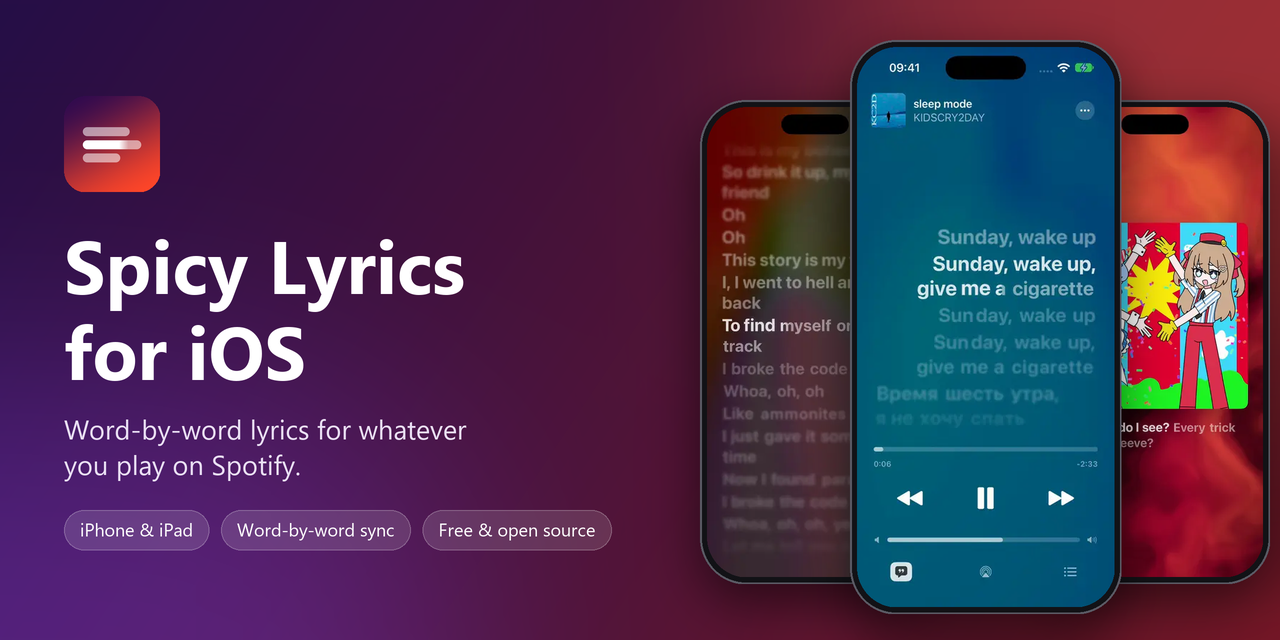
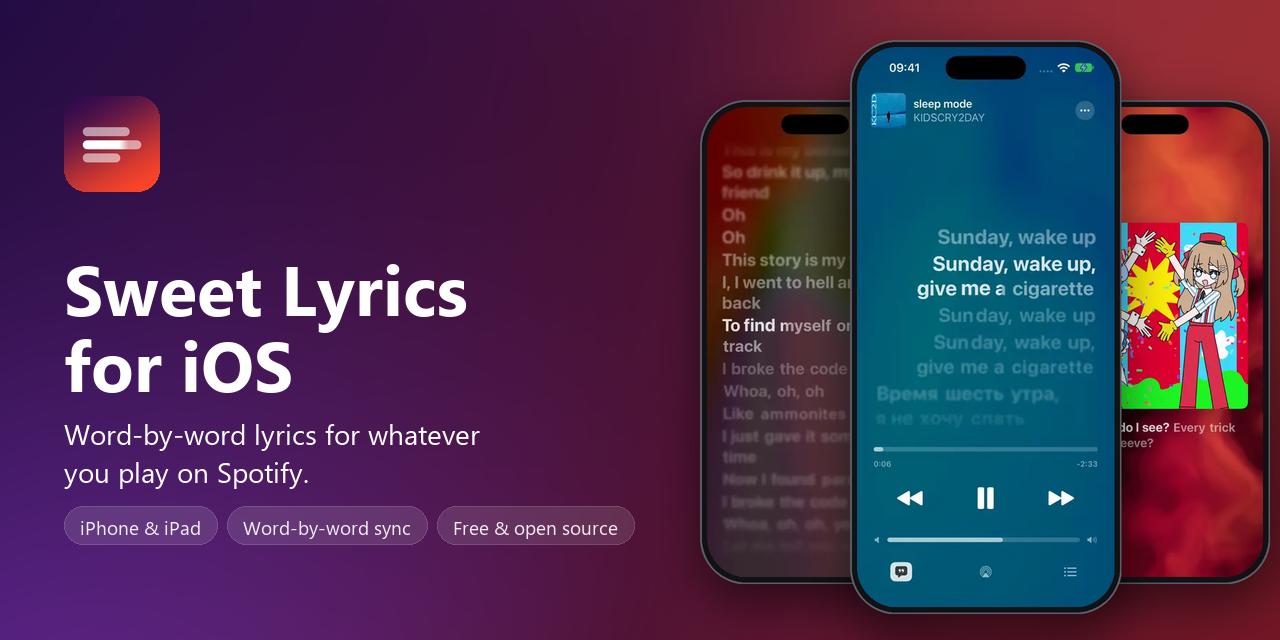
Rename the app to Sweet Lyrics (unofficial port built on Spicy Lyrics)

Changed region(s): [[0.0312, 0.6562, 0.5, 0.875], [0.0312, 0.375, 0.375, 0.625]]

diff --git a/SpicyLyrics/UI/SpotifySetupGuideView.swift b/SpicyLyrics/UI/SpotifySetupGuideView.swift
@@ -39,7 +39,7 @@ struct SpotifySetupGuideView: View {
 
                 step(2, String(localized: "Создайте приложение")) {
                     Text("Нажмите **Create app** и заполните форму:")
-                    bullet("**App name** — любое, например «Spicy Lyrics».")
+                    bullet("**App name** — любое, например «Sweet Lyrics».")
                     bullet("**App description** — любое, например «Тексты песен».")
                     bullet("**Website** — можно оставить пустым.")
                     bullet("**Redirect URIs** — вставьте адрес ниже и нажмите **Add**:")

diff --git a/SpicyLyrics/UI/OnboardingView.swift b/SpicyLyrics/UI/OnboardingView.swift
@@ -14,7 +14,7 @@ struct OnboardingView: View {
             ScrollView {
                 VStack(alignment: .leading, spacing: 22) {
                     VStack(alignment: .leading, spacing: 8) {
-                        Text("Spicy Lyrics")
+                        Text("Sweet Lyrics")
                             .font(.system(size: 40, weight: .heavy))
                         Text(String(localized: "Синхронные по словам тексты для того, что играет у вас в Spotify."))
                             .font(.title3.weight(.medium))

diff --git a/SpicyLyrics/Support/DemoMode.swift b/SpicyLyrics/Support/DemoMode.swift
@@ -21,7 +21,7 @@ struct DemoTrack {
         let info = TrackInfo(
             id: id,
             uri: "spotify:track:\(id)",
-            title: defaults.string(forKey: "demoTitle") ?? "Spicy Lyrics",
+            title: defaults.string(forKey: "demoTitle") ?? "Sweet Lyrics",
             artists: defaults.string(forKey: "demoArtist").map { [$0] } ?? [],
             album: "",
             duration: defaults.object(forKey: "demoDuration") != nil ? defaults.double(forKey: "demoDuration") : 240,

diff --git a/SpicyLyrics/UI/SyncLogView.swift b/SpicyLyrics/UI/SyncLogView.swift
@@ -74,7 +74,7 @@ struct SyncLogView: View {
     private func header() -> [String] {
         let device = UIDevice.current
         return [
-            "Spicy Lyrics \(AppVersion.display)",
+            "Sweet Lyrics \(AppVersion.display)",
             "\(device.model), \(device.systemName) \(device.systemVersion)",
             "Exported \(SyncLog.time(Date()))",
             "offset \(Int(settings.timingOffsetMs)) ms, headphone latency \(settings.compensateOutputLatency ? "on" : "off") "

diff --git a/SpicyLyrics/PiP/LyricsPictureInPicture.swift b/SpicyLyrics/PiP/LyricsPictureInPicture.swift
@@ -454,7 +454,7 @@ struct PiPSnapshot: @unchecked Sendable {
         self.fpsText = fpsText
         animatedBackground = (settings?.pipAnimatedBackground ?? true) && !reduced
         showTitle = settings?.pipShowTitle ?? true
-        title = player.track?.title ?? "Spicy Lyrics"
+        title = player.track?.title ?? "Sweet Lyrics"
         artist = player.track?.artistLine ?? ""
         isPlaying = player.isPlaying
         artworkID = player.artworkID

diff --git a/SpicyLyrics/UI/NowPlayingView.swift b/SpicyLyrics/UI/NowPlayingView.swift
@@ -692,7 +692,7 @@ struct NowPlayingView: View {
         case .episode(let title, _, _): return title
         case .ad: return String(localized: "Реклама")
         case .unknown: return String(localized: "Неизвестный трек")
-        case .none: return "Spicy Lyrics"
+        case .none: return "Sweet Lyrics"
         }
     }
 

diff --git a/scripts/altstore-source.py b/scripts/altstore-source.py
@@ -55,19 +55,19 @@ def make_source(repo, channel, releases):
     raw = f"https://raw.githubusercontent.com/{repo}/main"
     icon = raw + "/SpicyLyrics/Assets.xcassets/AppIcon.appiconset/AppIcon.png"
     return {
-        "name": "Spicy Lyrics - " + ("Alpha & Beta" if testing else "Stable"),
+        "name": "Sweet Lyrics - " + ("Alpha & Beta" if testing else "Stable"),
         "identifier": "com.spicylyrics.unofficial.source" + (".testing" if testing else ""),
         "subtitle": "Alpha, beta and stable builds" if testing else "Stable releases",
-        "description": "Unofficial Spicy Lyrics for iOS. " + ("Testing channel: alpha, beta and stable releases." if testing else "Stable channel."),
+        "description": "Sweet Lyrics for iOS: an unofficial port built on Spicy Lyrics. " + ("Testing channel: alpha, beta and stable releases." if testing else "Stable channel."),
         "iconURL": icon,
         "website": f"https://github.com/{repo}",
         "tintColor": "#8B5CF6",
         "apps": [{
-            "name": "Spicy Lyrics" + (" (Alpha & Beta)" if testing else ""),
+            "name": "Sweet Lyrics" + (" (Alpha & Beta)" if testing else ""),
             "bundleIdentifier": "com.spicylyrics.unofficial.ios",
             "developerName": "Sppq",
             "subtitle": "Word-synced lyrics for Spotify",
-            "localizedDescription": "Word-by-word synced lyrics for Spotify. " + ("Experimental alpha and beta updates." if testing else "Stable updates."),
+            "localizedDescription": "Word-by-word synced lyrics for Spotify. Unofficial port built on Spicy Lyrics, not affiliated with it. " + ("Experimental alpha and beta updates." if testing else "Stable updates."),
             "iconURL": icon,
             "tintColor": "#8B5CF6",
             "category": "entertainment",

diff --git a/README.md b/README.md
@@ -1,6 +1,6 @@
-<p align="center"><img src="docs/media/banner.png" alt="Spicy Lyrics for iOS: word-by-word lyrics for whatever you play on Spotify"></p>
+<p align="center"><img src="docs/media/banner.png" alt="Sweet Lyrics for iOS: word-by-word lyrics for whatever you play on Spotify"></p>
 
-# Spicy Lyrics for iOS
+# Sweet Lyrics for iOS
 
 **Word-by-word lyrics for whatever you're playing on Spotify**, in an Apple Music style
 player on your iPhone or iPad.
@@ -75,7 +75,7 @@ free apps that install apps from outside the App Store using your own Apple ID.
 - [AltStore](https://altstore.io): uses a small helper program on your computer.
 - [SideStore](https://sidestore.io): after the first setup, works on the phone alone.
 
-**2. Add Spicy Lyrics to it.** Copy this link:
+**2. Add Sweet Lyrics to it.** Copy this link:
 
 ```
 https://github.com/Sppqq/spicy-lyrics-ios/releases/latest/download/altstore-source.json
@@ -94,7 +94,7 @@ You get every new build as soon as it's made, so it can be buggier. Add only **o
 links: they install the same app.
 </details>
 
-**3. Install it.** Open the source, tap **Spicy Lyrics → Install** and wait a moment.
+**3. Install it.** Open the source, tap **Sweet Lyrics → Install** and wait a moment.
 
 **4. Connect Spotify.** Open the app and follow its guide. It takes about two minutes;
 [here's why it's needed](#why-do-i-have-to-create-a-spotify-app).
@@ -115,17 +115,17 @@ through it, and here are the same steps:
    `spicylyrics-ios://callback` and press **Add**. Tick **Web API**, accept, and **Save**.
 3. Open **Settings → User Management** and add the email of your Spotify account.
    You can add up to 5 people there, so friends can use your app too.
-4. Copy the **Client ID** from **Basic Information** and paste it into Spicy Lyrics.
+4. Copy the **Client ID** from **Basic Information** and paste it into Sweet Lyrics.
 
 ### The lyrics are a bit behind or ahead
 
-For the most exact timing, let Spicy Lyrics talk to the Spotify app on the same phone:
+For the most exact timing, let Sweet Lyrics talk to the Spotify app on the same phone:
 
 1. In your app on the [Spotify Developer Dashboard](https://developer.spotify.com/dashboard),
    open **Settings** and tick **iOS** as well.
-2. Add the **Bundle ID** shown in Spicy Lyrics under *Settings → Sync → If it won't connect*,
+2. Add the **Bundle ID** shown in Sweet Lyrics under *Settings → Sync → If it won't connect*,
    and the redirect URI `spicylyrics-ios://callback`.
-3. Sign in again in Spicy Lyrics if it asks.
+3. Sign in again in Sweet Lyrics if it asks.
 
 ### The app stopped opening after a week
 
